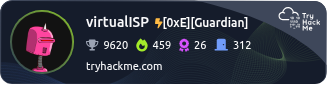
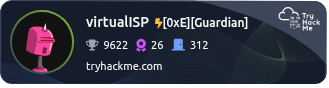
refactor: remove streak fetching and rendering — badge shows points, rank, rooms only

Changed region(s): [[0.3647, 0.4318, 0.7599, 0.5909]]

diff --git a/index.js b/index.js
@@ -9,7 +9,6 @@ const path = require('path');
 const { URL } = require('url');
 
 const BADGE_URL = 'https://tryhackme.com/badge/140548';
-const PROFILE_URL = 'https://tryhackme.com/p/virtualISP';
 const OUTPUT_PATH = path.join(__dirname, 'assets', 'uploadme.png');
 
 const DEBUG = process.env.DEBUG === '1' || process.env.DEBUG === 'true';
@@ -86,8 +85,8 @@ async function fetchBadgeHTML() {
   debugFile('badge-raw.html', rawHtml);
 
   // Check if we got a Vercel challenge page
-  if (rawHtml.includes('x-vercel-challenge') || rawHtml.includes('Just a moment')) {
-    throw new Error('FlareSolverr returned a Vercel challenge page for badge URL');
+  if (rawHtml.includes('Vercel Security Checkpoint') || rawHtml.includes('Just a moment')) {
+    throw new Error('FlareSolverr returned a Vercel challenge page — cannot fetch badge data');
   }
 
   // TryHackMe badge page returns base64-encoded HTML: document.write(window.atob("..."))
@@ -105,94 +104,10 @@ async function fetchBadgeHTML() {
     return rawHtml;
   }
 
-  // Last resort: dump and try to extract from whatever we got
-  console.warn('⚠ Could not decode badge HTML via atob');
+  console.warn('Could not decode badge HTML via atob');
   console.warn('First 500 chars:', rawHtml.substring(0, 500));
   debugFile('badge-decode-failure.html', rawHtml);
   return rawHtml;
-}
-
-// ─── Streak extraction ──────────────────────────────────────────────
-async function fetchStreak() {
-  if (!USE_FLARESOLVERR) throw new Error('FlareSolverr not configured');
-
-  for (let attempt = 1; attempt <= 3; attempt++) {
-    try {
-      const html = await fetchViaFlareSolverr(PROFILE_URL);
-
-      if (attempt === 1) {
-        debugFile('profile-raw.html', html);
-        debugLog('Profile HTML length:', html.length);
-      }
-
-      // Check for Vercel challenge
-      if (html.includes('x-vercel-challenge') || html.includes('Just a moment')) {
-        throw new Error('FlareSolverr returned a Vercel challenge page for profile URL');
-      }
-
-      // Pattern 1: React structure - "Streak" heading followed by fire icon SVG then number
-      let match = html.match(/>Streak<\/div>[\s\S]*?<\/svg><\/div><span[^>]*>(\d+)<\/span>/i);
-      if (match) { debugLog('Streak P1 match:', match[1]); return match[1]; }
-
-      // Pattern 2: "Streak" followed by any container with a number
-      match = html.match(/>Streak<\/div>[\s\S]{0,500}?(?:span|div)[^>]*>(\d+)<\/(?:span|div)>/i);
-      if (match) { debugLog('Streak P2 match:', match[1]); return match[1]; }
-
-      // Pattern 3: aria-label="Streak" nearby number
-      match = html.match(/aria-label="Streak[^"]*"[^>]*>[^<]*<[^>]*>(\d+)/i);
-      if (match) { debugLog('Streak P3 match:', match[1]); return match[1]; }
-
-      // Pattern 4: section with id="streak" or similar containing a number
-      match = html.match(/id="streak"[^>]*>[\s\S]{0,300}?(\d+)/i);
-      if (match) { debugLog('Streak P4 match:', match[1]); return match[1]; }
-
-      // Pattern 5: Plain text "Streak 459" or "Streak: 459" (but NOT "Streak notifications")
-      match = html.match(/>Streak<[^>]*>[^<]*(?:<[^>]*>)*\s*(\d+)/i);
-      if (match) { debugLog('Streak P5 match:', match[1]); return match[1]; }
-
-      // Pattern 6: data attribute
-      match = html.match(/data-streak["\s]*[:=]\s*["']?(\d+)["']/i);
-      if (match) { debugLog('Streak P6 match:', match[1]); return match[1]; }
-
-      // Pattern 7: JSON-LD or embedded data
-      match = html.match(/"streak"\s*:\s*(\d+)/i);
-      if (match) { debugLog('Streak P7 match:', match[1]); return match[1]; }
-
-      // Find ALL numbers within 2000 chars of "Streak"/"streak" for debugging
-      const streakIdx = html.search(/streak/i);
-      if (streakIdx >= 0) {
-        const context = html.substring(streakIdx, Math.min(html.length, streakIdx + 2000));
-        const nearbyNums = [...context.matchAll(/>(\d{1,6})</g)].map(m => m[1]);
-        console.warn('Numbers near "streak":', nearbyNums.slice(0, 10));
-        if (attempt === 1) {
-          console.warn('Profile HTML length:', html.length);
-          console.warn('Profile preview (first 1000 chars):', html.substring(0, 1000));
-          debugFile('streak-context.txt', context);
-          debugFile('profile-failure.html', html);
-        }
-      } else {
-        console.warn('No "streak" text found in profile HTML');
-        console.warn('Profile HTML length:', html.length);
-        console.warn('Profile preview (first 1000 chars):', html.substring(0, 1000));
-      }
-
-      if (attempt < 3) {
-        console.warn(`Streak not found (attempt ${attempt}/3), retrying...`);
-        await new Promise(r => setTimeout(r, 2000));
-        continue;
-      }
-
-      console.warn('⚠ Could not extract streak after 3 attempts');
-      return '0';
-    } catch (err) {
-      if (attempt < 3) {
-        console.warn(`Streak fetch failed (attempt ${attempt}/3): ${err.message}, retrying...`);
-        await new Promise(r => setTimeout(r, 3000));
-        continue;
-      }
-      throw err;
-    }
-  }
 }
 
 // ─── Stats extraction from badge HTML ───────────────────────────────
@@ -218,16 +133,7 @@ function extractStatsFromBadgeHTML(html) {
     return iconStatMatches.map(m => m[1].replace(/,/g, ''));
   }
 
-  // Pattern 4: trophy/door/target in any attribute
-  const trophyMatch = html.match(/trophy[^>]*>\s*(\d[\d,]*)/i);
-  const doorMatch = html.match(/door[^>]*>\s*(\d[\d,]*)/i);
-  const targetMatch = html.match(/target[^>]*>\s*(\d[\d,]*)/i);
-  if (trophyMatch && doorMatch && targetMatch) {
-    debugLog('Stats via trophy/door/target:', [trophyMatch[1], doorMatch[1], targetMatch[1]]);
-    return [trophyMatch[1], doorMatch[1], targetMatch[1]];
-  }
-
-  // Pattern 5: Any three consecutive numbers in spans near icons
+  // Pattern 4: Any three consecutive numbers in spans
   const allNums = [...html.matchAll(/<span[^>]*>\s*(\d[\d,]*)\s*<\/span>/g)].map(m => m[1].replace(/,/g, ''));
   if (allNums.length >= 3) {
     debugLog('Stats via all spans:', allNums.slice(0, 5));
@@ -304,7 +210,6 @@ async function buildHTML(stats) {
     .details-icon-wrapper { display: flex; gap: 5px; align-items: center; }
     .detail-icons { font-weight: 900; font-size: 11px; }
     .trophy-icon { color: #9ca4b4; }
-    .fire-icon { color: #a3ea2a; font-size: 13px; }
     .award-icon { color: #d752ff; font-size: 13px; }
     .door-closed-icon { color: #719cf9; font-size: 12px; }
     .details-text { font-family: Ubuntu, sans-serif; font-weight: 400; font-size: 11px; color: #ffffff; }
@@ -321,7 +226,6 @@ async function buildHTML(stats) {
       </div>
       <div class="details-wrapper">
         <div class="details-icon-wrapper"><i class="fa-solid fa-trophy detail-icons trophy-icon"></i><span class="details-text">${stats.points}</span></div>
-        <div class="details-icon-wrapper"><i class="fa-solid fa-fire detail-icons fire-icon"></i><span class="details-text">${stats.streak}</span></div>
         <div class="details-icon-wrapper"><i class="fa-solid fa-award detail-icons award-icon"></i><span class="details-text">${stats.rank}</span></div>
         <div class="details-icon-wrapper"><i class="fa-solid fa-door-closed detail-icons door-closed-icon"></i><span class="details-text">${stats.rooms}</span></div>
       </div>
@@ -350,7 +254,7 @@ async function takeScreenshot(html) {
     '--no-default-browser-check'
   ];
   const launchOpts = { args: launchArgs, headless: 'new', ignoreDefaultArgs: ['--enable-automation'] };
-  
+
   if (chromiumPath) {
     launchOpts.executablePath = chromiumPath;
     console.log(`Using system Chromium: ${chromiumPath}`);
@@ -361,7 +265,7 @@ async function takeScreenshot(html) {
   const browser = await puppeteer.launch(launchOpts);
   const page = await browser.newPage();
   await page.setViewport({ width: 329, height: 88 });
-  
+
   await page.setContent(html, { waitUntil: 'networkidle0' });
   await page.waitForSelector('.thm-avatar');
   await new Promise(resolve => setTimeout(resolve, 500));
@@ -375,15 +279,14 @@ async function main() {
     if (DEBUG) console.log('[DEBUG] Mode enabled — saving raw HTML to debug/');
 
     const html = await fetchBadgeHTML();
-    const streak = await fetchStreak();
-    
+
     // Extract username, rankTitle, avatarUrl from badge HTML
     const nicknameMatch = html.match(/<span class="thm_nickname">([^<]+)<\/span>/);
     const username = nicknameMatch ? nicknameMatch[1] : 'virtualISP';
-    
+
     const rankMatch = html.match(/<span class="thm_rank">([^<]+)<\/span\s*>/);
     const rankTitle = rankMatch ? rankMatch[1] : '[0xE]';
-    
+
     let avatarUrl = null;
     const avatarMatch = html.match(/class="thm_avatar"[^>]*style="[^"]*background-image:\s*url\(['"]?([^'")]+)['"]?\)/);
     if (avatarMatch) {
@@ -399,33 +302,29 @@ async function main() {
     if (!avatarUrl) {
       avatarUrl = 'https://tryhackme-images.s3.amazonaws.com/user-avatars/9868455b210665b03783b489764e48df.png';
     }
-    
+
     const statsArray = extractStatsFromBadgeHTML(html);
     if (statsArray.length < 3) {
-      console.warn('⚠ Stats extraction failed. HTML length:', html.length);
-      console.warn('HTML preview (first 1000 chars):', html.substring(0, 1000));
-      // Check for known patterns
+      console.warn('Stats extraction failed. HTML length:', html.length);
       console.warn('Has thm_nickname:', html.includes('thm_nickname'));
       console.warn('Has thm_stat:', html.includes('thm_stat'));
       console.warn('Has thm_badge:', html.includes('thm_badge'));
-      console.warn('Has details-text:', html.includes('details-text'));
       throw new Error(`Expected at least 3 stats from badge, got ${statsArray.length}`);
     }
     const [points, rooms, rank] = statsArray;
-    
-    const stats = { username, rankTitle, avatarUrl, points, streak, rank, rooms };
-    
+
+    const stats = { username, rankTitle, avatarUrl, points, rank, rooms };
+
     const badgeHTML = await buildHTML(stats);
     await takeScreenshot(badgeHTML);
-    
-    console.log('✅ Badge generated successfully!');
+
+    console.log('Badge generated successfully!');
     console.log(`   Username: ${stats.username}`);
     console.log(`   Points: ${stats.points}`);
-    console.log(`   Streak: ${stats.streak}`);
     console.log(`   Rank: ${stats.rank}`);
     console.log(`   Rooms: ${stats.rooms}`);
   } catch (err) {
-    console.error('❌ Failed to generate badge:', err.message);
+    console.error('Failed to generate badge:', err.message);
     process.exit(1);
   }
 }
